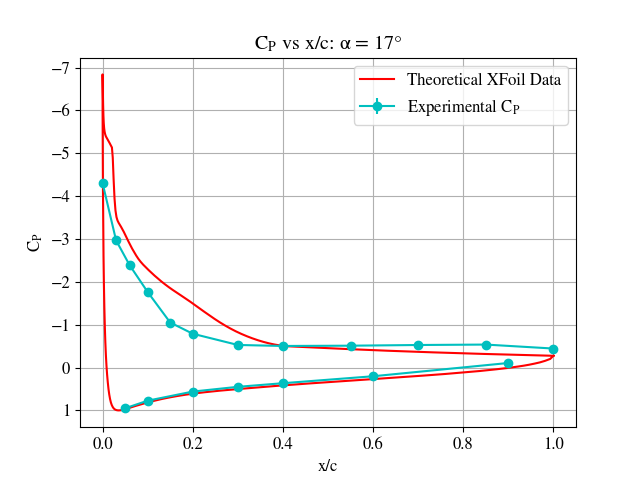
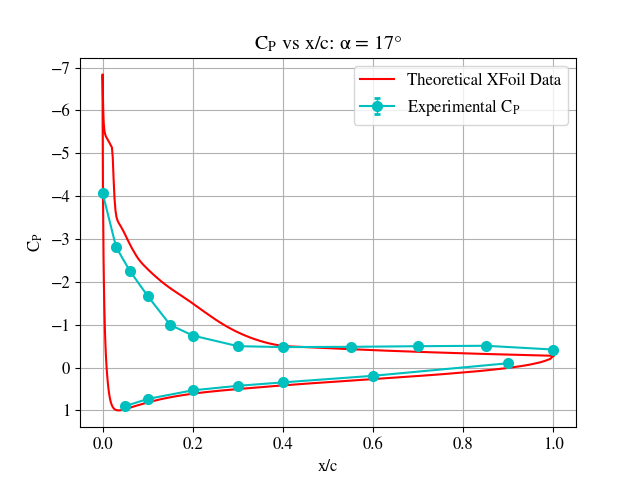
graphs still funky

diff --git a/src/Graphing.py b/src/Graphing.py
@@ -49,8 +49,8 @@ def CpGraph(a: np.int32, Cp_top: np.array, Cp_bot: np.array, Cp_top_err: np.arra
     plt.rcParams.update({'font.size': 12})
 
     plt.plot(xfoil_x, xfoil_cp, color = 'r')
-    plt.errorbar(air_top_tap_pos, Cp_top, yerr=Cp_top_err, color = 'c', marker = 'o')
-    plt.errorbar(air_bot_tap_pos, Cp_bot, yerr=Cp_bot_err, color = 'c', marker = 'o')
+    plt.errorbar(air_top_tap_pos, Cp_top, yerr=Cp_top_err, color = 'c', marker = 'o', capsize=2, elinewidth=1, markeredgewidth=2)
+    plt.errorbar(air_bot_tap_pos, Cp_bot, yerr=Cp_bot_err, color = 'c', marker = 'o', capsize=2, elinewidth=1, markeredgewidth=2)
     params = {'mathtext.default': 'regular' }          
     plt.rcParams.update(params)
     plt.title('$C_{P}$ vs x/c: $α$ = ' + str(a) + u'\N{DEGREE SIGN}')
@@ -79,7 +79,7 @@ def VelGraph(a: np.int32, V_r: np.array, V_r_err: np.array, V_pos: np.array):
         tap positions
     '''
 
-    plt.errorbar(V_r, V_pos, xerr=V_r_err, color = 'c', marker = 'o')
+    plt.errorbar(V_r, V_pos, xerr=V_r_err, color = 'c', marker = 'o', capsize=2, elinewidth=1, markeredgewidth=2)
     params = {'mathtext.default': 'regular' }          
     plt.rcParams.update(params)
     plt.title('Wake velocity profile: $α$ = ' + str(a) + u'\N{DEGREE SIGN}')
@@ -141,7 +141,10 @@ def CoeffGraph(a: np.int32, Cl: np.array, dCl: np.array, Cd: np.array, dCd: np.a
     uiuc_a = []
     uiuc_cl = []
     uiuc_cd = []
+    
+    uiuc_am = []
     uiuc_cm = []
+
 
     with open(r"data\UIUC_Data\UIUC_Data.csv", newline='') as U:
         reader = csv.reader(U, delimiter=';')
@@ -151,11 +154,19 @@ def CoeffGraph(a: np.int32, Cl: np.array, dCl: np.array, Cd: np.array, dCd: np.a
             uiuc_a.append(float(row[0]))
             uiuc_cl.append(float(row[1]))
             uiuc_cd.append(float(row[2]))
-            #uiuc_cm.append(float(row[3]))
+
+    with open(r"data\UIUC_Data\UIUC_DataCm.csv", newline='') as U:
+        reader = csv.reader(U, delimiter=';')
+        reader = list(reader)
+        reader = reader[1:]
+        for row in reader:
+            uiuc_am.append(float(row[0]))
+            uiuc_cm.append(float(row[1]))
+
 
     print(" Saving C_l-a.png..")
     plt.plot(xfoil_a, xfoil_cl, color = 'r')
-    plt.errorbar(a, Cl, yerr=dCl, color = 'c', marker = '.')
+    plt.errorbar(a, Cl, xerr=1, yerr=dCl, color = 'c', marker = '.', capsize=2, elinewidth=1, markeredgewidth=2)
     plt.plot(uiuc_a, uiuc_cl, color = 'g')
     params = {'mathtext.default': 'regular' }          
     plt.rcParams.update(params)
@@ -170,7 +181,7 @@ def CoeffGraph(a: np.int32, Cl: np.array, dCl: np.array, Cd: np.array, dCd: np.a
 
     print(" Saving C_d-a.png..")
     plt.plot(xfoil_a, xfoil_cdp, color = 'r')
-    plt.errorbar(a, Cd, yerr=dCd, color = 'c', marker = '.')
+    plt.errorbar(a, Cd, xerr=1, yerr=dCd, color = 'c', marker = '.', capsize=2, elinewidth=1, markeredgewidth=2)
     plt.plot(uiuc_a, uiuc_cd, color = 'g')
     params = {'mathtext.default': 'regular' }
     plt.rcParams.update(params)
@@ -185,8 +196,8 @@ def CoeffGraph(a: np.int32, Cl: np.array, dCl: np.array, Cd: np.array, dCd: np.a
 
     print(" Saving C_m-a.png..")
     plt.plot(xfoil_a, xfoil_cm, color = 'r')
-    plt.errorbar(a, Cm, yerr=dCm, color = 'c', marker = '.')
-    #plt.plot(uiuc_a, uiuc_cm, color = 'g')
+    plt.errorbar(a, Cm, xerr=1, yerr=dCm, color = 'c', marker = '.', capsize=2, elinewidth=1, markeredgewidth=2)
+    plt.plot(uiuc_am, uiuc_cm, color = 'g')
     params = {'mathtext.default': 'regular' }
     plt.rcParams.update(params)
     plt.rcParams.update({'font.size': 12})
@@ -200,7 +211,7 @@ def CoeffGraph(a: np.int32, Cl: np.array, dCl: np.array, Cd: np.array, dCd: np.a
     
     print(" Saving C_Dt-a.png..")
     plt.plot(xfoil_a, xfoil_cd, color = 'r')
-    plt.errorbar(a, Cdt, yerr=dCdt, color='c', marker='.')
+    plt.errorbar(a, Cdt, xerr=1, yerr=dCdt, color='c', marker='.', capsize=2, elinewidth=1, markeredgewidth=2)
     params = {'mathtext.default': 'regular'}
     plt.rcParams.update(params)
     plt.rcParams.update({'font.size': 12})
@@ -215,7 +226,7 @@ def CoeffGraph(a: np.int32, Cl: np.array, dCl: np.array, Cd: np.array, dCd: np.a
     print(" Saving C_l-C_d.png..")
     plt.plot(xfoil_cdp, xfoil_cl, color='r')
     plt.plot(uiuc_cd, uiuc_cl, color='g')
-    plt.errorbar(Cd, Cl, xerr=dCd, yerr=dCl, color='c', marker='.')
+    plt.errorbar(Cd, Cl, xerr=dCd, yerr=dCl, color='c', marker='.', capsize=2, elinewidth=1, markeredgewidth=2)
     params = {'mathtext.default': 'regular'}
     plt.rcParams.update(params)
     plt.rcParams.update({'font.size': 12})

diff --git a/src/Forces.py b/src/Forces.py
@@ -1,6 +1,6 @@
 import numpy as np
 
-def NormalForce(p_top: np.array, p_bot: np.array, p_err_top: np.array, p_err_bot: np.array, top_p_pos: np.array, bot_p_pos: np.array):
+def NormalForce(p_top: np.array, p_bot: np.array, p_err_top: np.array, p_err_bot: np.array, top_p_pos: np.array, bot_p_pos: np.array, alpha):
     '''
     Returns the Normal force for pressure distribution.
 
@@ -31,9 +31,15 @@ def NormalForce(p_top: np.array, p_bot: np.array, p_err_top: np.array, p_err_bot
 
     theta_upper= np.arctan(np.diff(y_upper)/np.diff(x_upper))
     theta_lower= np.arctan(np.diff(y_lower)/np.diff(x_lower))
-    
+
+
     ds_upper = np.sqrt(np.diff(x_upper)**2 + np.diff(y_upper)**2)
     ds_lower = np.sqrt(np.diff(x_lower)**2 + np.diff(y_lower)**2)
+
+    x_upper = np.diff(x_upper)
+    x_lower = np.diff(x_lower)
+    y_upper = np.diff(y_upper)
+    y_lower = np.diff(y_lower)
     
     n = 0
     dn = 0
@@ -51,7 +57,7 @@ def NormalForce(p_top: np.array, p_bot: np.array, p_err_top: np.array, p_err_bot
     
     return n, dn
 
-def AxialForce(p_top: np.array, p_bot: np.array, p_err_top: np.array, p_err_bot: np.array, top_p_pos: np.array, bot_p_pos: np.array):
+def AxialForce(p_top: np.array, p_bot: np.array, p_err_top: np.array, p_err_bot: np.array, top_p_pos: np.array, bot_p_pos: np.array, alpha):
     '''
     Returns the Axial force for pressure distribution.
 
@@ -85,6 +91,11 @@ def AxialForce(p_top: np.array, p_bot: np.array, p_err_top: np.array, p_err_bot:
     ds_upper = np.sqrt(np.diff(x_upper)**2 + np.diff(y_upper)**2)
     ds_lower = np.sqrt(np.diff(x_lower)**2 + np.diff(y_lower)**2)
     
+    x_upper = np.diff(x_upper)
+    x_lower = np.diff(x_lower)
+    y_upper = np.diff(y_upper)
+    y_lower = np.diff(y_lower)
+
     a = 0
     da = 0
 
@@ -156,11 +167,11 @@ def PressureDragForce(alpha: float, dalpha: float, n: float, dn: float, a: float
     '''
 
     dp = n * np.sin(np.deg2rad(alpha)) + a * np.cos(np.deg2rad(alpha))
-    ddp =  np.sqrt((np.sin(np.deg2rad(alpha)) * dn)**2 + (np.cos(np.deg2rad(alpha)) * da)**2 + ((n*np.cos(np.deg2rad(alpha)) - a*np.sin(np.deg2rad(alpha)))*np.deg2rad(alpha))**2)
+    ddp =  np.sqrt((np.sin(np.deg2rad(alpha)) * dn)**2 + (np.cos(np.deg2rad(alpha)) * da)**2 + ((n*np.cos(np.deg2rad(alpha)) - a*np.sin(np.deg2rad(alpha)))*np.deg2rad(dalpha))**2)
 
     return dp, ddp
 
-def MomentLE(p_top: np.array, p_bot: np.array, p_err_top: np.array, p_err_bot: np.array, top_p_pos: np.array, bot_p_pos: np.array):
+def MomentLE(p_top: np.array, p_bot: np.array, p_err_top: np.array, p_err_bot: np.array, top_p_pos: np.array, bot_p_pos: np.array, alpha):
     '''
     Returns the Moment about the leading edge 
     acting on the airfoil for given pressure distribution.
@@ -188,25 +199,29 @@ def MomentLE(p_top: np.array, p_bot: np.array, p_err_top: np.array, p_err_bot: n
     x_lower = [row[0] for row in bot_p_pos]
     y_upper = [row[1] for row in top_p_pos]
     y_lower = [row[1] for row in bot_p_pos]
-    
     theta_upper= np.arctan(np.diff(y_upper)/np.diff(x_upper))
     theta_lower= np.arctan(np.diff(y_lower)/np.diff(x_lower))
     
     ds_upper = np.sqrt(np.diff(x_upper)**2 + np.diff(y_upper)**2)
     ds_lower = np.sqrt(np.diff(x_lower)**2 + np.diff(y_lower)**2)   
 
+    x_upper = np.diff(x_upper)
+    x_lower = np.diff(x_lower)
+    y_upper = np.diff(y_upper)
+    y_lower = np.diff(y_lower)
+
     m = 0
     dm = 0
 
     for i in range(len(ds_upper)):
-        m += 0.5*(p_top[i] + p_top[i+1])*np.cos(theta_upper[i])*x_upper[i]*ds_upper[i]
-        m += -0.5*(p_top[i] + p_top[i+1])*np.sin(theta_upper[i])*y_upper[i]*ds_upper[i]
+        m += 0.5*(p_top[i] + p_top[i+1])*np.cos(theta_upper[i]-np.deg2rad(alpha))*x_upper[i]*ds_upper[i]
+        m += -0.5*(p_top[i] + p_top[i+1])*np.sin(theta_upper[i]-np.deg2rad(alpha))*y_upper[i]*ds_upper[i]
 
         dm += (0.5*np.cos(theta_upper[i])*x_upper[i]*ds_upper[i]-0.5*np.sin(theta_upper[i])*y_upper[i]*ds_upper[i]*p_err_top[i])**2
 
     for i in range(len(ds_lower)):
-        m += 0.5*(p_bot[i] + p_bot[i+1])*np.cos(theta_lower[i])*x_lower[i]*ds_lower[i]
-        m += 0.5*(p_bot[i] + p_bot[i+1])*np.sin(theta_lower[i])*y_lower[i]*ds_lower[i]
+        m += 0.5*(p_bot[i] + p_bot[i+1])*np.cos(theta_lower[i]-np.deg2rad(alpha))*x_lower[i]*ds_lower[i]
+        m += 0.5*(p_bot[i] + p_bot[i+1])*np.sin(theta_lower[i]-np.deg2rad(alpha))*y_lower[i]*ds_lower[i]
 
         dm += (0.5*np.cos(theta_lower[i])*x_lower[i]*ds_lower[i]+0.5*np.sin(theta_lower[i])*y_lower[i]*ds_lower[i]*p_err_bot[i])**2
     

diff --git a/src/main.py b/src/main.py
@@ -67,8 +67,7 @@ for i in range(0,len(data)):
     elif not is_top and float(data[i][0]) in air_bot_tap_pos:
         airfoil_bot.append([float(data[i][0]), float(data[i][1])])
 
-print(len(airfoil_top))
-print(len(airfoil_bot))
+
 # Convert to np.array
 airfoil_top = np.array(airfoil_top)*0.1  # Multiplying values by cord length (values given are per unit cord)
 airfoil_bot = np.array(airfoil_bot)*0.1 # Multiplying values by cord length (values given are per unit cord)
@@ -160,9 +159,9 @@ for i,a in enumerate(alpha):
     Dt, Dt_err = TotalDrag(V_pos/100, V_r, V_r_err, U_inf, U_inf_err)
 
     # Finding normal, axial forces and moment forces
-    N, dN = NormalForce(p_top, p_bot, p_top_err, p_bot_err, airfoil_top, airfoil_bot)
-    A, dA = AxialForce(p_top, p_bot, p_top_err, p_bot_err, airfoil_top, airfoil_bot)
-    M, dM = MomentLE(p_top, p_bot, p_top_err, p_bot_err, airfoil_top, airfoil_bot)
+    N, dN = NormalForce(p_top, p_bot, p_top_err, p_bot_err, airfoil_top, airfoil_bot, a)
+    A, dA = AxialForce(p_top, p_bot, p_top_err, p_bot_err, airfoil_top, airfoil_bot, a)
+    M, dM = MomentLE(p_top, p_bot, p_top_err, p_bot_err, airfoil_top, airfoil_bot, a)
 
     # Finding lift and drag forces
     L, dL = LiftForce(a, dalpha, N, dN, A, dA)

diff --git a/src/Velocity.py b/src/Velocity.py
@@ -102,7 +102,7 @@ def DynPressure(U_inf: np.float64, U_inf_err: np.float64):
     q_inf_err: Dynamic Pressure error
     '''
 
-    rho = 1.225
+    rho = 1.293# 1.225 
 
     q_inf = 0.5*rho*(U_inf**2)
 
